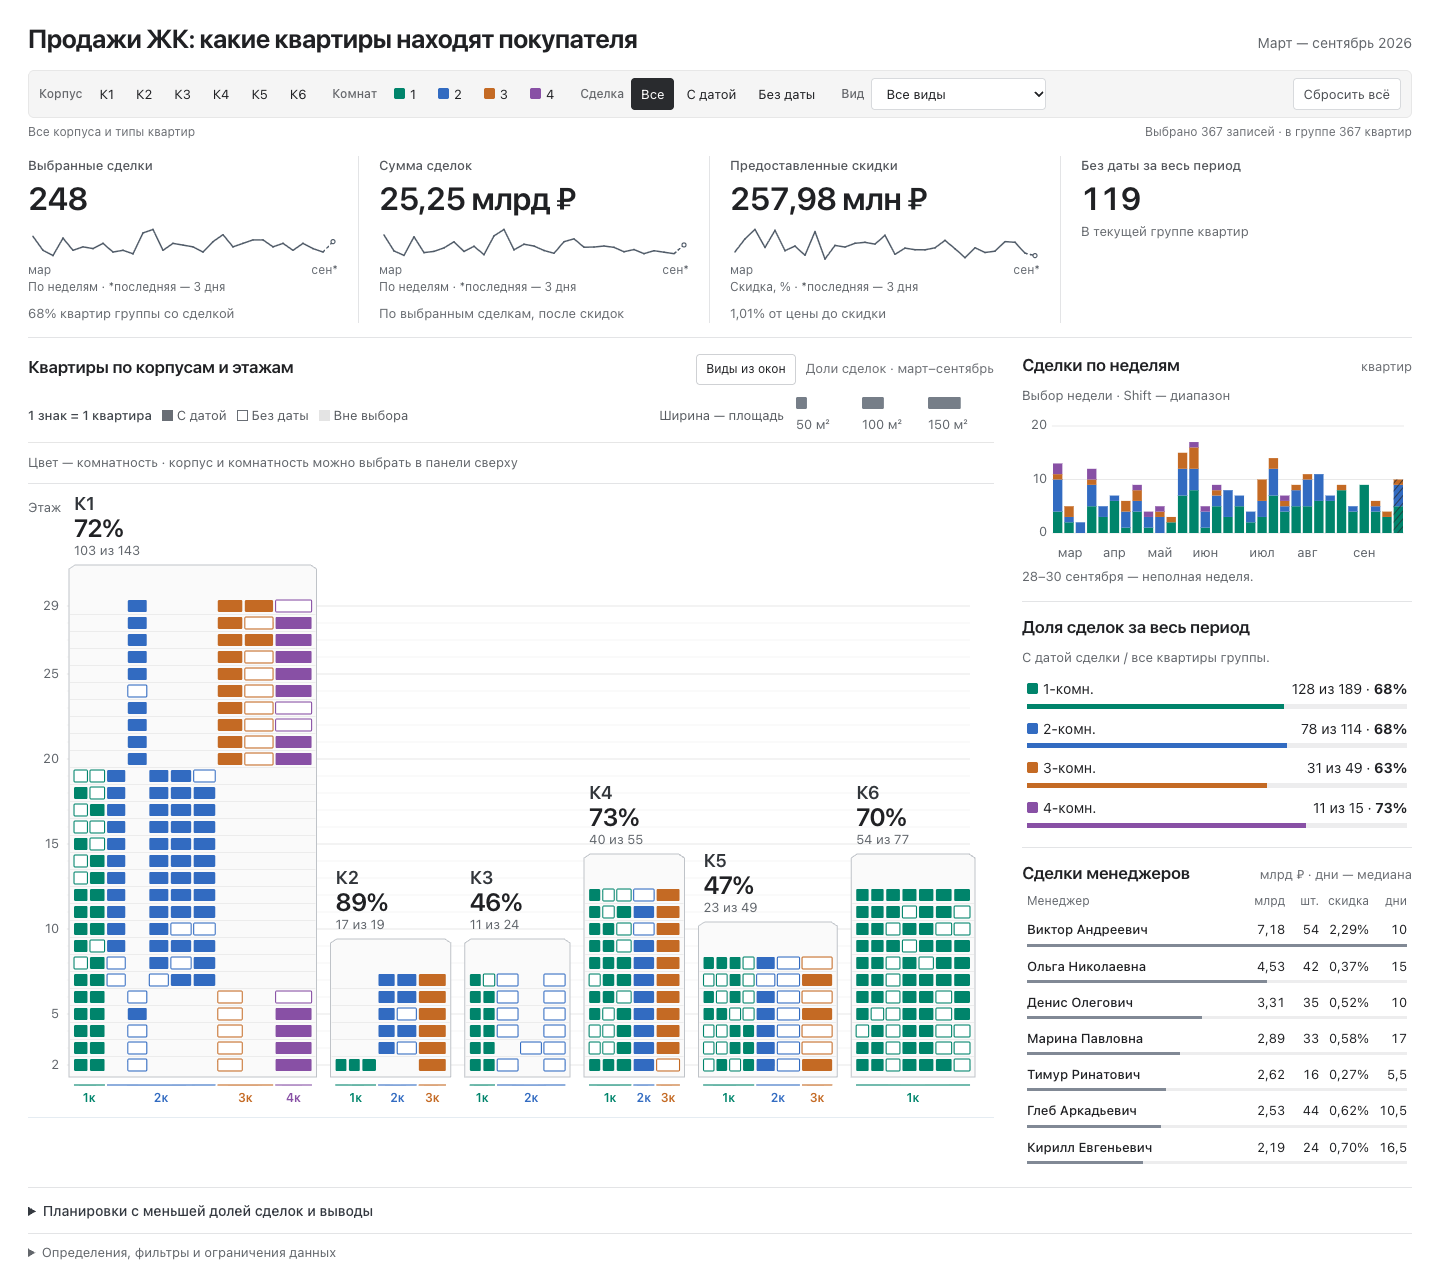
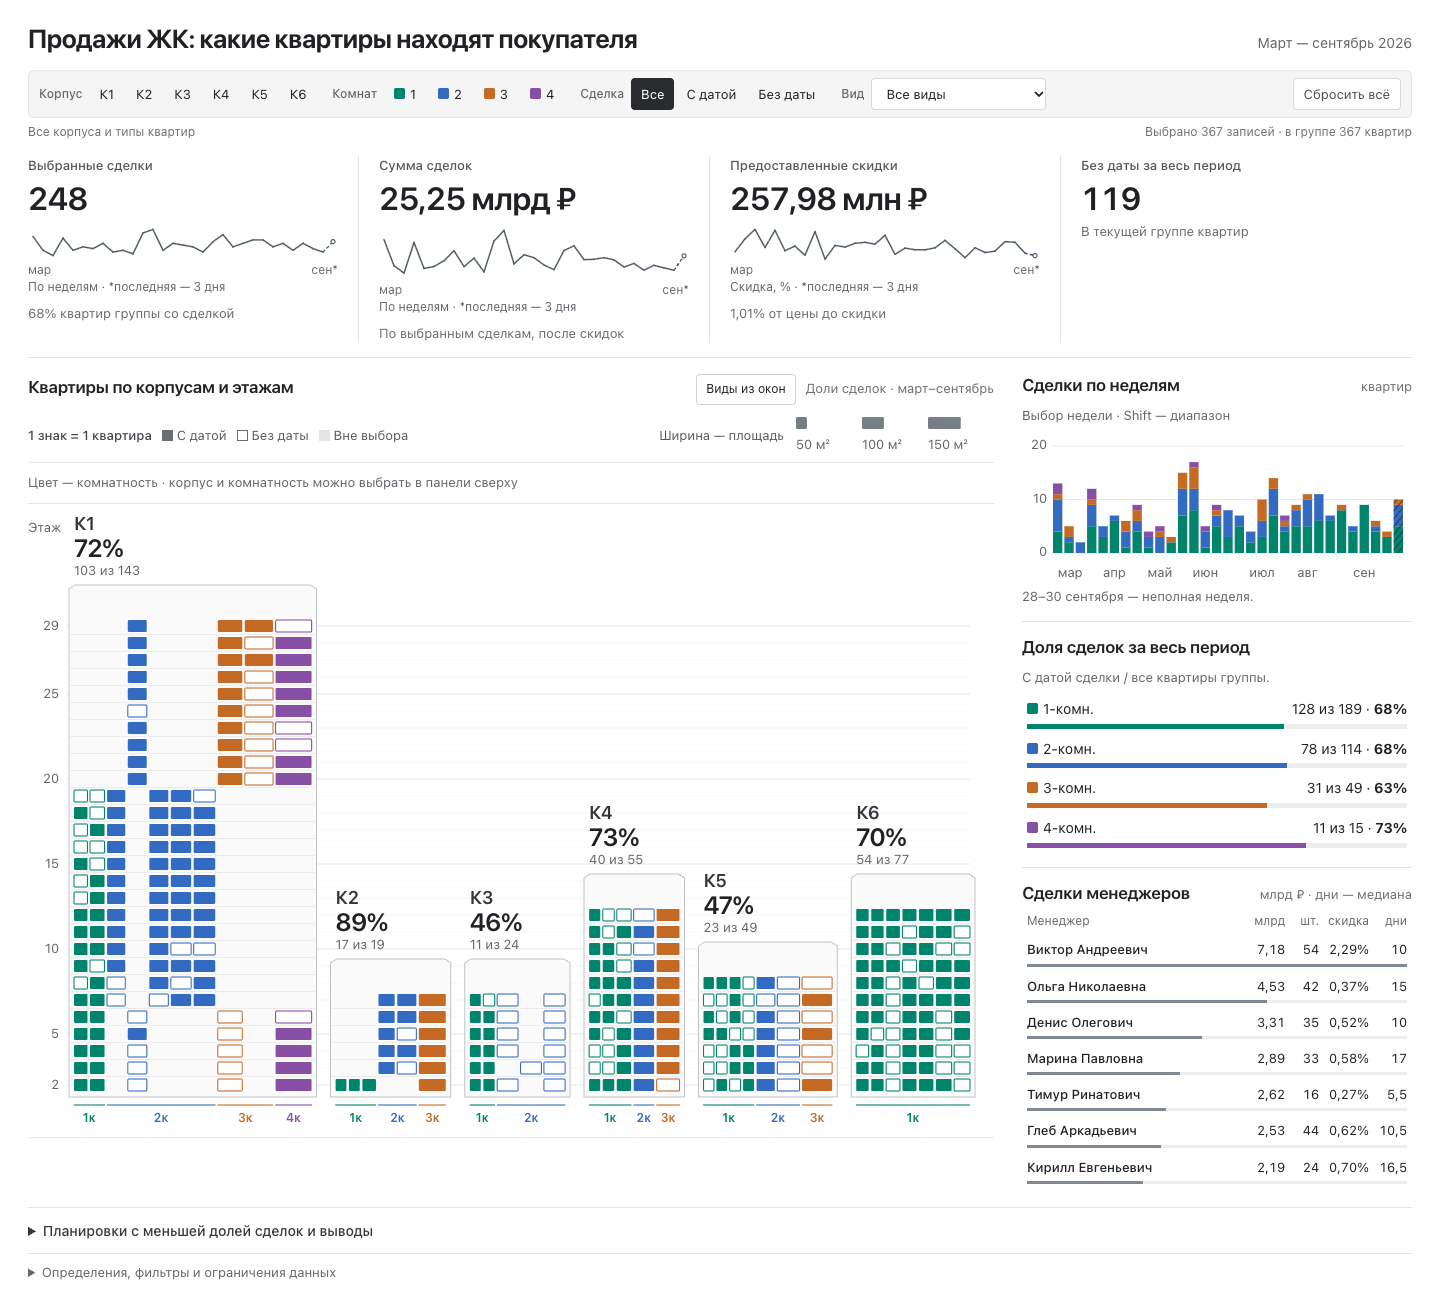
Improve revenue sparkline and add period revenue comparison

diff --git a/index.html b/index.html
@@ -160,7 +160,7 @@ main{padding-top:22px}
 <p class="prototype-note">Локальная проба · виды из окон в квартирах · без публикации</p><header><h1>Продажи ЖК: какие квартиры находят покупателя</h1><p class="subtitle">Март — сентябрь 2026</p></header>
 <div class="filters"><div class="group" id="building-buttons"><span class="filter-label">Корпус</span></div><div class="group" id="room-buttons"><span class="filter-label">Комнат</span></div><div class="group" id="status-buttons"><span class="filter-label">Сделка</span></div><label class="group"><span class="filter-label">Вид</span><select id="view"><option value="">Все виды</option></select></label><button class="reset" id="reset">Сбросить всё</button></div>
 <div class="selection" id="selection" aria-live="polite"></div><p class="scope-note" id="scope-note" hidden></p>
-<div class="metrics"><div class="metric"><div class="metric-label">Выбранные сделки</div><div class="metric-value" id="k-sales"></div><div id="sales-spark" class="kpi-spark"></div><div class="spark-caption">По неделям · *последняя — 3 дня</div><div class="metric-context" id="k-sales-note"></div><div id="trend" class="metric-trend" hidden></div></div><div class="metric"><div class="metric-label">Сумма сделок</div><div class="metric-value" id="k-money"></div><div id="money-spark" class="kpi-spark"></div><div class="spark-caption">По неделям · *последняя — 3 дня</div><div class="metric-context">По выбранным сделкам, после скидок</div></div><div class="metric"><div class="metric-label">Предоставленные скидки</div><div class="metric-value" id="k-discount"></div><div id="discount-spark" class="kpi-spark"></div><div class="spark-caption">Скидка, % · *последняя — 3 дня</div><div class="metric-context" id="k-discount-note"></div></div><div class="metric"><div class="metric-label">Без даты за весь период</div><div class="metric-value" id="k-stock"></div><div class="metric-context">В текущей группе квартир</div></div></div>
+<div class="metrics"><div class="metric"><div class="metric-label">Выбранные сделки</div><div class="metric-value" id="k-sales"></div><div id="sales-spark" class="kpi-spark"></div><div class="spark-caption">По неделям · *последняя — 3 дня</div><div class="metric-context" id="k-sales-note"></div><div id="trend" class="metric-trend" hidden></div></div><div class="metric"><div class="metric-label">Сумма сделок</div><div class="metric-value" id="k-money"></div><div id="money-spark" class="kpi-spark"></div><div class="spark-caption">По неделям · *последняя — 3 дня</div><div class="metric-context">По выбранным сделкам, после скидок</div><div id="money-trend" class="metric-trend" hidden></div></div><div class="metric"><div class="metric-label">Предоставленные скидки</div><div class="metric-value" id="k-discount"></div><div id="discount-spark" class="kpi-spark"></div><div class="spark-caption">Скидка, % · *последняя — 3 дня</div><div class="metric-context" id="k-discount-note"></div></div><div class="metric"><div class="metric-label">Без даты за весь период</div><div class="metric-value" id="k-stock"></div><div class="metric-context">В текущей группе квартир</div></div></div>
 <div class="layout"><section class="main-panel"><div class="panel-header"><h2>Квартиры по корпусам и этажам</h2><button type="button" id="views-toggle" class="view-toggle" aria-pressed="false" aria-controls="houses view-legend plot-help">Виды из окон</button><span class="unit">Доли сделок · март–сентябрь</span></div><div class="main-legend"><div class="status-keys"><span class="legend-caption">1 знак = 1 квартира</span><span><i class="key-square"></i>С датой</span><span><i class="key-square hollow"></i>Без даты</span><span><i class="key-square out"></i>Вне выбора</span></div><div class="area-key"><span>Ширина — площадь</span><div id="area-key"></div></div></div><div id="view-legend" class="view-legend" hidden aria-label="Пиктограммы видов из окон"><span class="view-caption">Вид из окна</span><span><svg aria-hidden="true"><use href="#vi-garden"></use></svg>Сад</span><span><svg aria-hidden="true"><use href="#vi-yard"></use></svg>Двор</span><span><svg aria-hidden="true"><use href="#vi-street"></use></svg>Улица</span><span><svg aria-hidden="true"><use href="#vi-windows"></use></svg>Окна ЖК</span><span><svg aria-hidden="true"><use href="#vi-river"></use></svg>Река</span><span><svg aria-hidden="true"><use href="#vi-ring"></use></svg>Садовое</span></div><div class="encoding-note" id="encoding-note">Цвет — комнатность · корпус и комнатность можно выбрать в панели сверху</div><p class="plot-help" id="plot-help" hidden></p><div class="plot-scroll"><div id="houses"></div></div><div class="detail" id="detail" aria-live="polite" hidden></div></section>
 <aside class="sidebar"><section><div class="panel-header"><h2>Сделки по неделям</h2><span class="unit">квартир</span></div><p class="panel-note">Выбор недели · Shift — диапазон</p><div id="weekly"></div><p class="week-footnote">28–30 сентября — неполная неделя.</p></section><section><div class="panel-header"><h2 id="rooms-title">Доля сделок за весь период</h2></div><p class="panel-note" id="rooms-context">Проданные / все квартиры группы.</p><div id="rooms-chart"></div></section><section><div class="panel-header"><h2>Сделки менеджеров</h2><span class="unit">млрд ₽ · дни — медиана</span></div><p class="panel-note" id="managers-context" hidden>Сравнение всех менеджеров. Клик — выбор сотрудника.</p><div id="managers"></div><p class="manager-advice" id="manager-advice"></p></section></aside></div>
 <details class="extra-analysis"><summary>Планировки с меньшей долей сделок и выводы</summary><div class="bottom"><section><h2>Где меньше сделок за весь период</h2><p class="panel-note">Март–сентябрь · группы от 5 квартир · клик — фильтр.</p><div id="plans"></div></section><section><h2>Что видно в этой группе</h2><p class="hypothesis" id="hypothesis"></p></section></div>
@@ -282,22 +282,25 @@ function houses(){
 }
 
 function periodComparison(){
- const host=$('trend'),selectedWeeks=[...state.weeks].sort();
- host.replaceChildren();host.hidden=!selectedWeeks.length;
+ const hosts=[$('trend'),$('money-trend')],selectedWeeks=[...state.weeks].sort();
+ hosts.forEach(host=>{host.replaceChildren();host.hidden=!selectedWeeks.length});
  if(!selectedWeeks.length)return;
- const line=value=>{const n=document.createElement('span');n.textContent=value;host.append(n)};
+ const line=(host,value)=>{const n=document.createElement('span');n.textContent=value;host.append(n)};
  if(selectedWeeks.some((w,i)=>i&&ts(w)-ts(selectedWeeks[i-1])!==7*DAY)){
-  line('Для сравнения выберите непрерывный диапазон недель.');return;
+  hosts.forEach(host=>line(host,'Для сравнения выберите непрерывный диапазон недель.'));return;
  }
  const start=ts(selectedWeeks[0]),end=Math.min(ts(selectedWeeks.at(-1))+6*DAY,ts('2026-09-30'));
  const days=Math.round((end-start)/DAY)+1,previousStart=start-days*DAY,previousEnd=start-DAY;
  const short=t=>date(iso(t)).slice(0,5),range=(a,b)=>short(a)+(a===b?'':'–'+short(b));
- line(range(start,end)+' / '+range(previousStart,previousEnd));
- if(previousStart<ts('2026-03-02')){line('Нет полных данных за предыдущий период.');return;}
- const context=chosen(['weeks']).filter(d=>d.date),current=context.filter(d=>ts(d.date)>=start&&ts(d.date)<=end).length,previous=context.filter(d=>ts(d.date)>=previousStart&&ts(d.date)<=previousEnd).length;
- const change=previous?((current>=previous?'+':'')+Math.round((current/previous-1)*100)+'%'):null;
- const last=previous%10,lastTwo=previous%100,unit=lastTwo>=11&&lastTwo<=14?'сделок':last===1?'сделка':last>=2&&last<=4?'сделки':'сделок';
- line('Предыдущий период: '+previous+' '+unit+(change?' · '+change:''));
+ hosts.forEach(host=>line(host,range(start,end)+' / '+range(previousStart,previousEnd)));
+ if(previousStart<ts('2026-03-02')){hosts.forEach(host=>line(host,'Нет полных данных за предыдущий период.'));return;}
+ const context=chosen(['weeks']).filter(d=>d.date),currentRows=context.filter(d=>ts(d.date)>=start&&ts(d.date)<=end),previousRows=context.filter(d=>ts(d.date)>=previousStart&&ts(d.date)<=previousEnd);
+ const current=currentRows.length,previous=previousRows.length;
+ const change=(now,before)=>before?((now>=before?'+':'')+Math.round((now/before-1)*100)+'%'):null;
+ const countChange=change(current,previous),last=previous%10,lastTwo=previous%100,unit=lastTwo>=11&&lastTwo<=14?'сделок':last===1?'сделка':last>=2&&last<=4?'сделки':'сделок';
+ line(hosts[0],'Предыдущий период: '+previous+' '+unit+(countChange?' · '+countChange:''));
+ const previousMoney=sum(previousRows,'amount'),moneyChange=change(sum(currentRows,'amount'),previousMoney);
+ line(hosts[1],'Предыдущий период: '+money(previousMoney)+(moneyChange?' · '+moneyChange:''));
 }
 
 function kpiSparklines(){
@@ -309,7 +312,7 @@ function kpiSparklines(){
  ];
  for(const s of series){
   const host=$(s.id);host.replaceChildren();
-  const W=Math.max(100,Math.floor(host.clientWidth)),H=52,T=4,B=35,step=W/weeks.length,max=Math.max(.01,...s.values.filter(n=>n!==null))*1.05;
+  const W=Math.max(100,Math.floor(host.clientWidth)),H=s.id==='money-spark'?72:52,T=4,B=s.id==='money-spark'?55:35,step=W/weeks.length,max=Math.max(.01,...s.values.filter(n=>n!==null))*1.05;
   const x=i=>(i+.5)*step,y=n=>B-n/max*(B-T);
   const svg=el('svg',{width:W,height:H,viewBox:`0 0 ${W} ${H}`,role:'img','aria-label':s.label+' по неделям. Без заливки; неделя 28–30 сентября — пунктир. Разрыв означает отсутствие сделок для расчёта.'},host);
   if(state.weeks.size)for(let i=0;i<weeks.length;i++)if(state.weeks.has(weeks[i]))el('rect',{x:i*step,y:0,width:step,height:B+1,fill:'#f0f2f4'},svg);

diff --git a/README.md b/README.md
@@ -18,7 +18,7 @@
 - Нажатие на неделю выбирает её; Shift + нажатие выбирает диапазон.
 - Кнопка «Сбросить всё» восстанавливает исходный выбор.
 - Кнопка «Виды из окон» показывает пиктограммы без изменения координат квартир; при открытии они скрыты. Значки над колонкой обозначают общий вид, внутри квартиры — дополнительный.
-- При выборе непрерывного диапазона недель под числом сделок появляется сравнение с предыдущим периодом той же длины. Показаны даты сравнения; при нехватке исходных данных процент не рассчитывается.
+- При выборе непрерывного диапазона недель под числом и суммой сделок появляется сравнение с предыдущим периодом той же длины. Показаны даты сравнения; при нехватке исходных данных процент не рассчитывается.
 - Мини-графики в верхних показателях показывают недельную динамику числа сделок, суммы договоров и взвешенной скидки в процентах. Выбранные недели выделены, весь период сохраняется для контекста.
 - Недельная скидка = сумма скидок / стоимость этих сделок до скидки. Недели без сделок показаны разрывами; последний неполный недельный отрезок — пунктиром.
 - Подробности по планировкам и выводы раскрываются внизу страницы.
